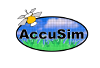
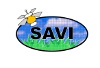
fix fragmodels and GUI pars

Changed region(s): [[0.18, 0.3824, 0.84, 0.5882]]

diff --git a/main.py b/main.py
@@ -8,16 +8,17 @@ from gooey import Gooey, GooeyParser
 import utils
 
 @Gooey(dump_build_config=True, 
-       program_name="AccuSim", 
+       program_name="Simulation Accuracy & Validation Informatics (SAVI)", 
        image_dir="./img",
        default_size=(715, 550)
        )
 def main():
-    desc = "AccuSim is a convenient, freely-available GUI-based tool designed to facilitate and automate the validation of\nsimulated land-change models. Fore more information, see the README file that accompanies this tool."
+    desc = "SAVI is a convenient, freely-available GUI-based tool designed to facilitate and automate the validation of\nsimulated land-change models. Fore more information, see the README file that accompanies this tool."
     parser = GooeyParser(description=desc)
 
     parser.add_argument(
-        "Baseline", 
+        "-b", "--baseline", 
+        metavar='Baseline Raster',
         help="Select a baseline (e.g. observed) raster file", 
         widget="FileChooser",
         gooey_options={
@@ -28,7 +29,8 @@ def main():
         }
     )
     parser.add_argument(
-        "Comparison", 
+        "-c", "--comparison", 
+        metavar='Comparison Raster',
         help="Select a comparison (e.g. simulated) raster file", 
         widget="FileChooser",
         gooey_options={
@@ -38,7 +40,12 @@ def main():
             }
         }
     )
-    parser.add_argument("Output_Folder", help="Select a folder where you want to save your output metrics files", widget="DirChooser")
+    parser.add_argument(
+        "-f", "--fout",
+        metavar='Output Folder', 
+        help="Select a local folder to store the summary validation metrics file", 
+        widget="DirChooser"
+    )
     
     fragstats_group = parser.add_argument_group(
         "FRAGSTATS (for Windows users ONLY)",
@@ -48,27 +55,38 @@ def main():
         }
     )
 
-    fragstats_group.add_argument(
-        "--Calculate metrics", 
-        default=False,
-        action="store_true",
-        help="Check the box"
-    )
+    # fragstats_group.add_argument(
+    #     "--Calculate metrics", 
+    #     default=False,
+    #     action="store_true",
+    #     help="Check the box"
+    # )
     
     fragstats_group.add_argument(
-        "--Executable_File_Location",
+        "-fe", "--frag_exe",
+        metavar='FRAGSTATS Executable Folder',
         widget="DirChooser",
-        help="Select the folder of the FRAGSTATS executable (.exe) file"
+        help="Browse to the local folder containing the FRAGSTATS executable (.exe) file"
     )
 
+    # fragstats_group_radio = fragstats_group.add_mutually_exclusive_group()
+
+    # fragstats_group_radio.add_argument(
+    #     "-fc", "--frag_check",
+    #     action="store_true",
+    #     metavar='Calculate FRAGSTATS Metrics',
+    #     widget="DirChooser",
+    #     help="Browse to the local folder containing the FRAGSTATS executable (.exe) file"
+    # )
+
     args = parser.parse_args()
-    #display_message()
 
     #Read params from the GUI
-    base_raster_path = args.Baseline
-    comp_raster_path = args.Comparison
-    out_dir = args.Output_Folder
-    exe_location = args.Executable_File_Location
+    base_raster_path = args.baseline
+    comp_raster_path = args.comparison
+    out_dir = args.fout
+    #exe_location = args.frag_check
+    exe_location = args.frag_exe
 
     # open raster data
     with rio.open(base_raster_path) as base:
@@ -102,10 +120,10 @@ def main():
     print(f"{ov_acc:9.2f} {csi:17.2f} {kappa:12.2f} {kappaW:16.2f}")
 
     # Save to output file
-    print("Saving Output Table to File...")
+    print("\nSaving Validation Metrics Table to File...")
     pontius_df = pd.DataFrame(val_lst)
     pontius_df.columns = ["Label", "Omission(%)", "Commission(%)", "Quantity", "Allocation"]
-    out_file = os.path.join(out_dir, "AccuSim_metrics.csv")
+    out_file = os.path.join(out_dir, "SAVI_metrics.csv")
     pontius_df.to_csv(out_file, index=False)
     with open(out_file, 'a') as csvFile:
         writer = csv.writer(csvFile)
@@ -118,23 +136,23 @@ def main():
 
     #FRAGSTATS SECTION
     #-----------------------------------------
+    if exe_location:
+        #TRY THIS %LocalAppData%
+        temp_dir = os.path.join(os.getenv('LOCALAPPDATA'), 'tmpSAVI')
+        if not os.path.exists(temp_dir):
+            try:
+                os.makedirs(temp_dir)
+            except OSError as e:
+                if e.errno != errno.EEXIST:
+                    raise
 
-    #TRY THIS %LocalAppData%
-    temp_dir = os.path.join(os.getenv('LOCALAPPDATA'), 'tmpAccuSim')
-    if not os.path.exists(temp_dir):
-        try:
-            os.makedirs(temp_dir)
-        except OSError as e:
-            if e.errno != errno.EEXIST:
-                raise
+        # Write required .fbt batchfile needed by FRAGSTATS 
+        utils.write_fbt_fragstats(dir_name = temp_dir, baseline = base_raster_path, comparison = comp_raster_path)
 
-    # Write required .fbt batchfile needed by FRAGSTATS 
-    utils.write_fbt_fragstats(dir_name = temp_dir, baseline = base_raster_path, comparison = comp_raster_path)
-
-    # Run FRAGSTATS
-    utils.run_fragstats(dir_name = temp_dir, fbt = "fragbatchinput.fbt", exe_path = exe_location,
-                        baseline = base_raster_path, comparison = comp_raster_path, 
-                        nclasses = n_classes, fout = out_file)
+        # Run FRAGSTATS
+        utils.run_fragstats(dir_name = temp_dir, fbt = "fragbatchinput.fbt", exe_path = exe_location,
+                            baseline = base_raster_path, comparison = comp_raster_path, 
+                            nclasses = n_classes, fout = out_file)
 
 if __name__ == '__main__':
     main()

diff --git a/utils.py b/utils.py
@@ -1,4 +1,4 @@
-import os, shutil, errno
+import os, shutil, errno, csv
 import pandas as pd
 import numpy as np
 from sklearn.metrics import confusion_matrix
@@ -208,7 +208,7 @@ def run_fragstats(dir_name, fbt, exe_path, baseline, comparison, nclasses, fout)
     outro.columns = ["Label", "NP", "GYRATE", "FRAC", "CORE", "ENN_AM", "ENN_CV", "ECON", "SUM", "Omit"]
 
     def calculate_Cdif(row):
-        return row['SUM'] / row['Omit']
+        return (row['SUM'] / row['Omit']) * 100
 
     outro['Config Dif'] = outro.apply(calculate_Cdif, axis = 1)
     
@@ -218,8 +218,10 @@ def run_fragstats(dir_name, fbt, exe_path, baseline, comparison, nclasses, fout)
     print(outro.to_string(index = False))
 
     # Save to output file
-    print("Saving Output Table to File...")
+    print("\nSaving Validation Metrics Table to File...")
     with open(fout, 'a') as csvFile:
+        writer = csv.writer(csvFile)
+        writer.writerow('\nFRAGSTATS CONFIGURATION METRICS')
         outro.to_csv(csvFile, index = False)
     csvFile.close()
     
